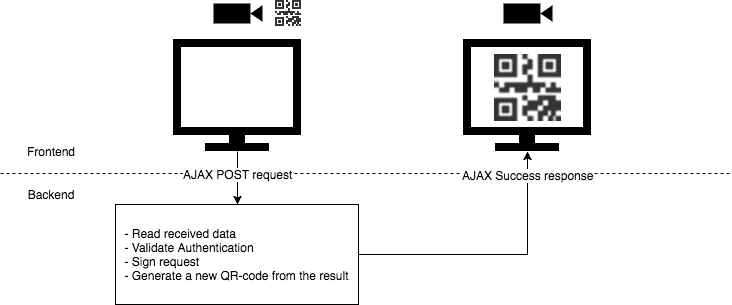
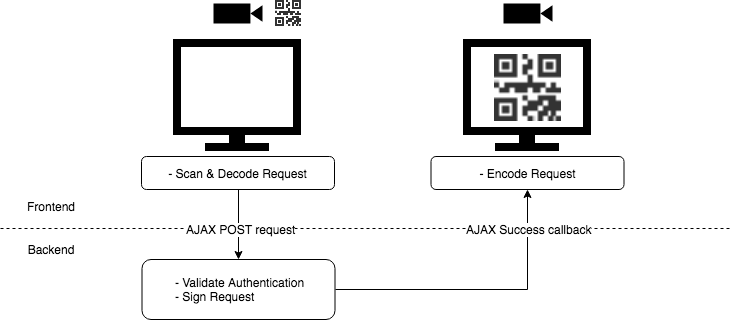
fixed bug when Signee sees a QR for the log verification. Also changed images

diff --git a/code/signee/app.js b/code/signee/app.js
@@ -92,7 +92,8 @@ io.on('connection', function(client) {
             }
         } else {
             // Verification successful on Signer side
-
+            if (data.latest_epoch) { return; }
+            
             if (!verifyAuth(JSON.stringify(data.data), data.auth)) {
                 // Local Verification failed -> requeue the requests
                 console.log("[!!!] ERROR: Verification failed!");
